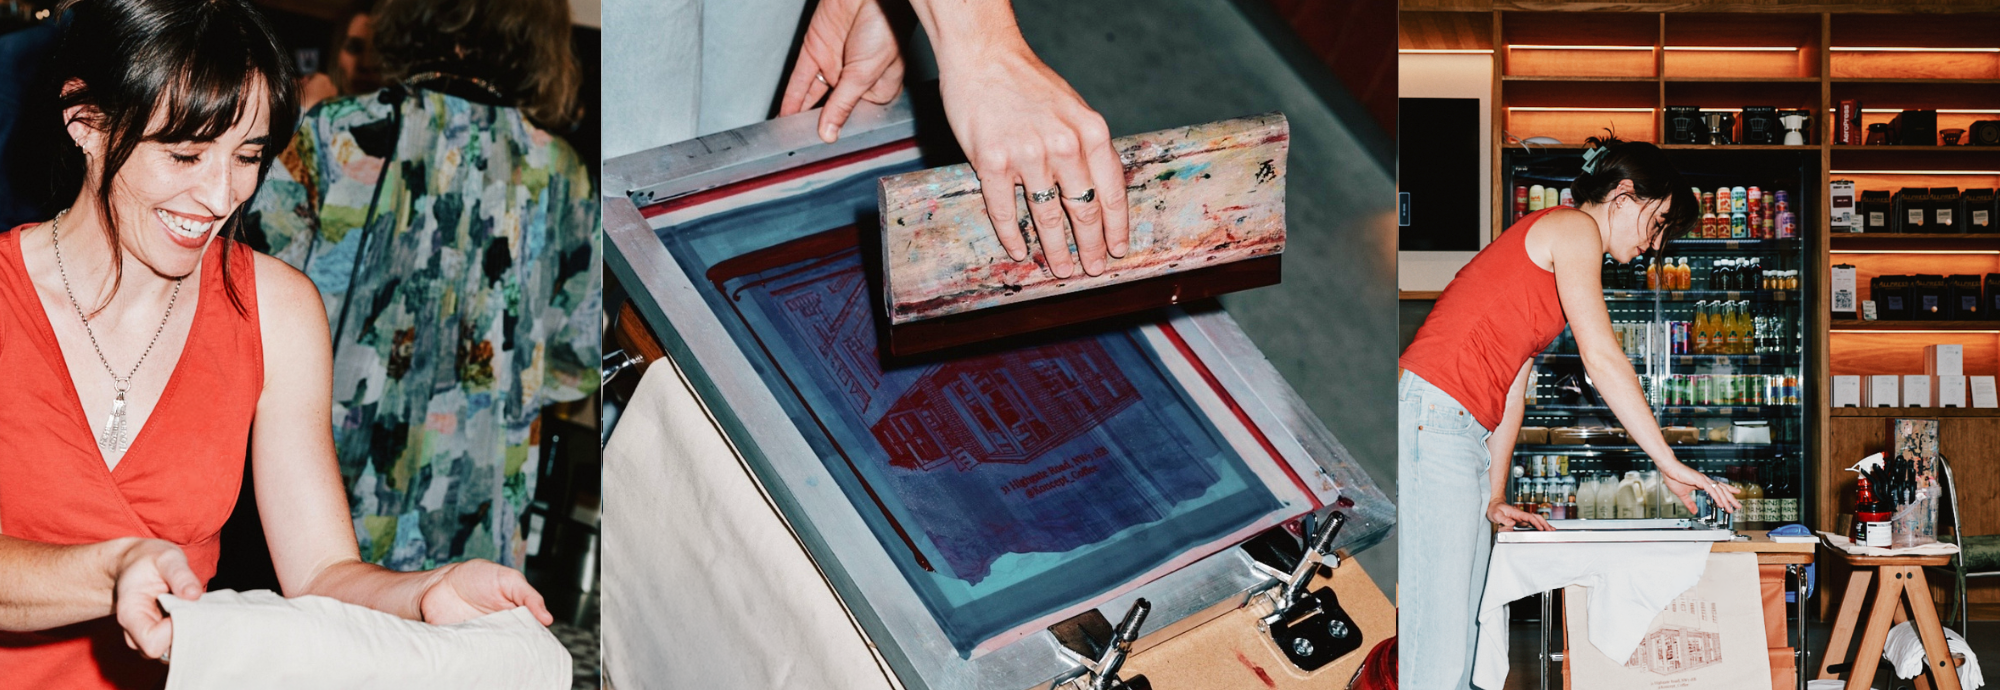
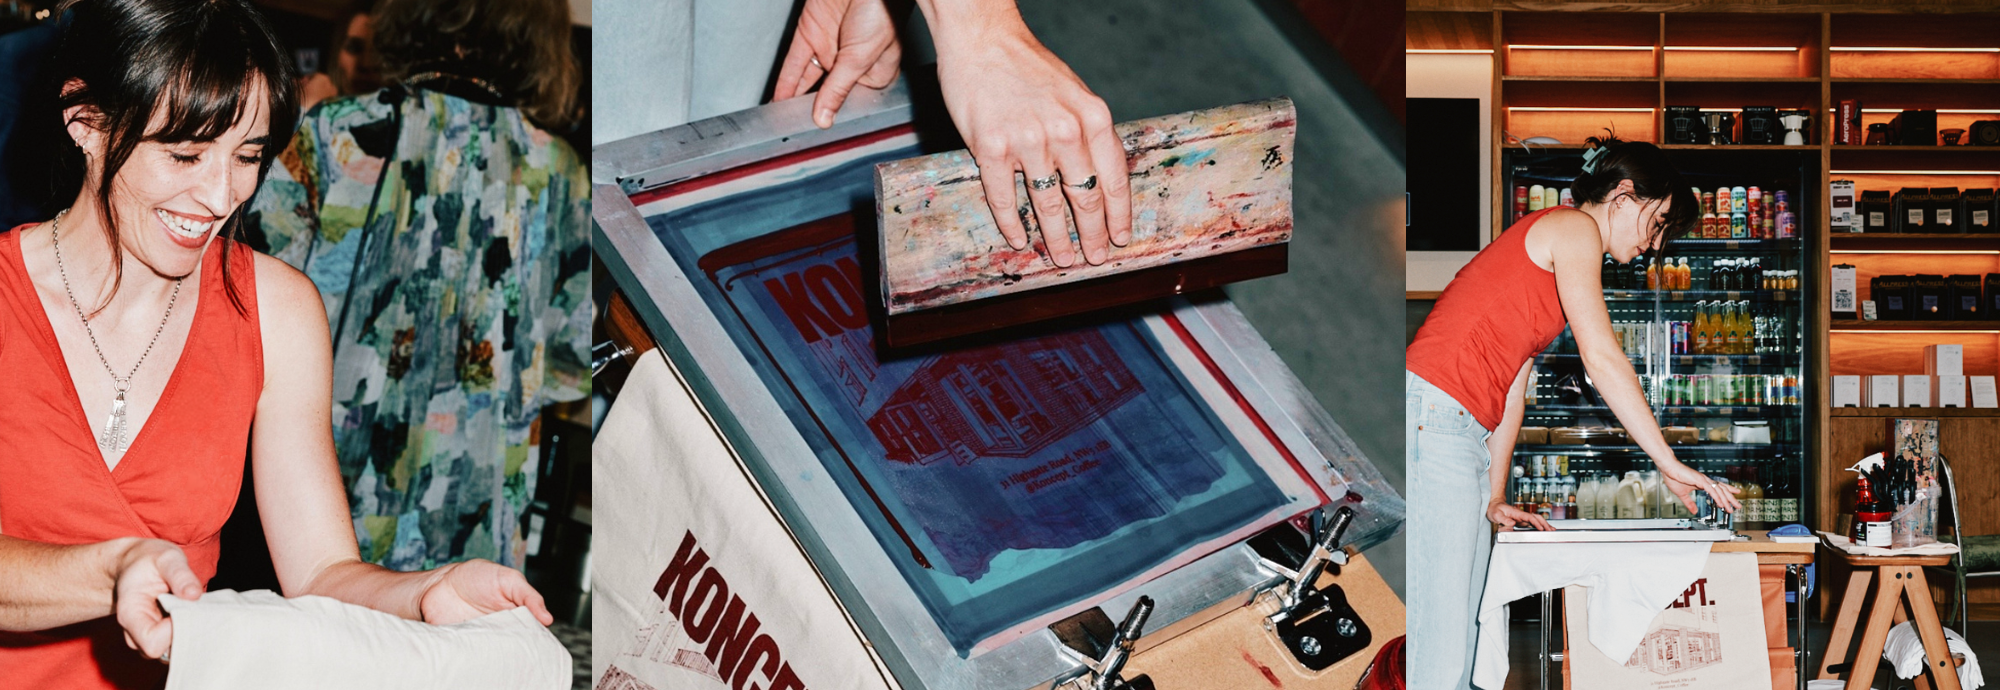
changes to commission form

Changed region(s): [[0.279, 0.0, 0.713, 1.0], [0.496, 0.8217, 0.589, 1.0], [0.837, 0.8522, 0.868, 0.8826]]

diff --git a/commission-form.html b/commission-form.html
@@ -21,10 +21,10 @@
         
         <a class="back" href="commissions.html">← Commission guide</a></div></div></header><main><section class="hero"><div class="wrap"><div class="eyebrow">Start a commission</div><h1>YOUR PLACE<br/><em>ON PAPER.</em></h1></div></section><div class="wrap intro"><div class="eyebrow">Commission request</div><p>Tell me the place, choose a size, send your photos.</p></div>
 <form action="https://formsubmit.co/info@idillustrates.com" enctype="multipart/form-data" method="POST"><input name="_subject" type="hidden" value="New Bespoke Illustration Request / ID Illustrates"/><input name="_template" type="hidden" value="table"/><input name="_next" type="hidden" value="https://www.idillustrates.com/commission-form.html?sent=1"/><input autocomplete="off" name="_honey" style="display:none" tabindex="-1" type="text"/><div class="wrap">
-<section class="step"><div class="step-head"><div class="step-num">01</div><div><div class="eyebrow">Tell me what matters</div><h2>THE PLACE.</h2></div></div><div class="field"><div class="legend">Choose one <span class="req">*</span></div><div class="control options"><label class="choice"><input name="Illustration type" required="" type="radio" value="Home"/> Home</label><label class="choice"><input name="Illustration type" type="radio" value="Wedding Venue"/> Wedding venue</label><label class="choice"><input name="Illustration type" type="radio" value="Other"/> Other special place</label></div></div><div class="field"><label for="venue">Which place? <span class="req">*</span></label><div class="control"><textarea id="venue" name="Property / venue address or name" placeholder="Address, venue name or a short description" required=""></textarea></div></div><div class="field"><label for="include">Anything I should notice?</label><div class="control"><textarea id="include" name="Special details to include" placeholder="The rose bush, a favourite window, a pet, or anything to leave out."></textarea></div></div><div class="field"><div class="legend">Reference photos <span class="req">*</span></div><div class="control"><div class="upload"><input accept="image/*" multiple="" name="Reference photos" required="" type="file"/></div><p class="help">Upload 1–10 clear photographs. A straight-on view plus detail shots is ideal.</p></div></div></section>
+<section class="step"><div class="step-head"><div class="step-num">01</div><div><div class="eyebrow">Tell me what matters</div></div></div><div class="field"><div class="legend">Choose one <span class="req">*</span></div><div class="control options"><label class="choice"><input name="Illustration type" required="" type="radio" value="Home"/> Home</label><label class="choice"><input name="Illustration type" type="radio" value="Wedding Venue"/> Wedding venue</label><label class="choice"><input name="Illustration type" type="radio" value="Other"/> Other special place</label></div></div><div class="field"><label for="venue">Which place? <span class="req">*</span></label><div class="control"><textarea id="venue" name="Property / venue address or name" placeholder="Address, venue name or a short description" required=""></textarea></div></div><div class="field"><label for="include">Anything I should notice?</label><div class="control"><textarea id="include" name="Special details to include" placeholder="The rose bush, a favourite window, a pet, or anything to leave out."></textarea></div></div><div class="field"><div class="legend">Reference photos <span class="req">*</span></div><div class="control"><div class="upload"><input accept="image/*" multiple="" name="Reference photos" required="" type="file"/></div><p class="help">Upload 1–10 clear photographs. A straight-on view plus detail shots is ideal.</p></div></div></section>
 
-<section class="step"><div class="step-head"><div class="step-num">02</div><div><div class="eyebrow">The artwork</div><h2>THE ORIGINAL.</h2></div></div><div class="field"><div class="legend">Size <span class="req">*</span></div><div class="control options"><label class="choice"><input name="Size" required="" type="radio" value="A5"/> A5 <span class="option-price" data-size="A5">£175</span></label><label class="choice"><input name="Size" type="radio" value="A4"/> A4 <span class="option-price" data-size="A4">£250 · most popular</span></label><label class="choice"><input name="Size" type="radio" value="A3"/> A3 <span class="option-price" data-size="A3">£325</span></label><p class="help">Same price whatever the place — a home, wedding venue, favourite building or somewhere meaningful.</p></div></div><div class="field"><div class="legend">Framing</div><div class="control options"><label class="choice"><input name="Framing" type="radio" value="No / I can provide my own frame"/> No frame</label><label class="choice"><input name="Framing" type="radio" value="Yes / framing from £45"/> Yes please <span class="option-price">from £45</span></label><label class="choice"><input name="Framing" type="radio" value="Not sure yet"/> Decide later</label></div></div><div class="field"><div class="legend">Extras</div><div class="control options"><label class="choice"><input name="Add-ons[]" type="checkbox" value="Add my pet / £35"/> Add my pet <span class="option-price">+£35</span></label><label class="choice"><input name="Add-ons[]" type="checkbox" value="Priority 1-week turnaround / £50"/> Priority turnaround <span class="option-price">+£50</span></label><label class="choice"><input name="Add-ons[]" type="checkbox" value="High-resolution digital copy / £35"/> Digital copy <span class="option-price">+£35</span></label></div></div><div class="price-live" id="priceLive"></div></section>
-<section class="step"><div class="step-head"><div class="step-num">03</div><div><div class="eyebrow">Your details</div><h2>YOUR DETAILS.</h2></div></div><div class="field"><label for="name">Name <span class="req">*</span></label><div class="control"><input autocomplete="name" id="name" name="Name" required="" type="text"/></div></div><div class="field"><label for="email">Email <span class="req">*</span></label><div class="control"><input autocomplete="email" id="email" name="Email" required="" type="email"/></div></div><div class="field"><label for="deadline">Need it by a date?</label><div class="control"><input id="deadline" name="Required by" type="date"/></div></div><div class="field"><label for="postcode">Delivery postcode</label><div class="control"><input autocomplete="postal-code" id="postcode" name="Delivery postcode" placeholder="UK postcode, or country if overseas" type="text"/></div></div><div class="field"><label for="comments">Anything else?</label><div class="control"><textarea id="comments" name="Final comments" placeholder="Gift occasion, names, dates, stationery plans, or anything else useful."></textarea></div></div><details class="terms-compact"><summary>Commission terms</summary><h3>Booking &amp; payment</h3><p>I’ll review your request and confirm the final price and timing before you book. A 50% deposit secures the commission; the balance is due when the artwork is complete. Usual turnaround is around 2 to 3 weeks.</p><h3>Revisions</h3><p>One round of minor revisions is included. Significant changes to the composition or further amendments may be charged separately.</p><h3>Delivery</h3><p>Tracked UK delivery is included. International delivery is quoted separately.</p><h3>Copyright &amp; usage</h3><p>The original artwork is yours; copyright remains with the artist. Personal use is included. Reproduction, wedding stationery or commercial use requires separate permission/licensing.</p><h3>Handmade artwork</h3><p>Each piece is individually hand drawn and signed. Natural variations are part of the character of original artwork.</p><label class="choice agree"><input name="Commission terms agreed" required="" type="checkbox" value="Yes"/> I have read and agree to the Commission Terms. <span class="req">*</span></label><div class="submit-row"><button class="submit" type="submit">Send commission request →</button><div class="note">This is an enquiry, not a payment. I’ll confirm availability, timing and final price before you book.</div></div></details></section>
+<section class="step"><div class="step-head"><div class="step-num">02</div><div><div class="eyebrow">The artwork</div></div></div><div class="field"><div class="legend">Size <span class="req">*</span></div><div class="control options"><label class="choice"><input name="Size" required="" type="radio" value="A5"/> A5 <span class="option-price" data-size="A5">£175</span></label><label class="choice"><input name="Size" type="radio" value="A4"/> A4 <span class="option-price" data-size="A4">£250 · most popular</span></label><label class="choice"><input name="Size" type="radio" value="A3"/> A3 <span class="option-price" data-size="A3">£325</span></label><p class="help">Same price whatever the place — a home, wedding venue, favourite building or somewhere meaningful.</p></div></div><div class="field"><div class="legend">Framing</div><div class="control options"><label class="choice"><input name="Framing" type="radio" value="No / I can provide my own frame"/> No frame</label><label class="choice"><input name="Framing" type="radio" value="Yes / framing from £45"/> Yes please <span class="option-price">from £45</span></label><label class="choice"><input name="Framing" type="radio" value="Not sure yet"/> Decide later</label></div></div><div class="field"><div class="legend">Extras</div><div class="control options"><label class="choice"><input name="Add-ons[]" type="checkbox" value="Add my pet / £35"/> Add my pet <span class="option-price">+£35</span></label><label class="choice"><input name="Add-ons[]" type="checkbox" value="Priority 1-week turnaround / £50"/> Priority turnaround <span class="option-price">+£50</span></label><label class="choice"><input name="Add-ons[]" type="checkbox" value="High-resolution digital copy / £35"/> Digital copy <span class="option-price">+£35</span></label></div></div><div class="price-live" id="priceLive"></div></section>
+<section class="step"><div class="step-head"><div class="step-num">03</div><div><div class="eyebrow">Your details</div></div></div><div class="field"><label for="name">Name <span class="req">*</span></label><div class="control"><input autocomplete="name" id="name" name="Name" required="" type="text"/></div></div><div class="field"><label for="email">Email <span class="req">*</span></label><div class="control"><input autocomplete="email" id="email" name="Email" required="" type="email"/></div></div><div class="field"><label for="deadline">Need it by a date?</label><div class="control"><input id="deadline" name="Required by" type="date"/></div></div><div class="field"><label for="postcode">Delivery postcode</label><div class="control"><input autocomplete="postal-code" id="postcode" name="Delivery postcode" placeholder="UK postcode, or country if overseas" type="text"/></div></div><div class="field"><label for="comments">Anything else?</label><div class="control"><textarea id="comments" name="Final comments" placeholder="Gift occasion, names, dates, stationery plans, or anything else useful."></textarea></div></div><details class="terms-compact"><summary>Commission terms</summary><h3>Booking &amp; payment</h3><p>I’ll review your request and confirm the final price and timing before you book. A 50% deposit secures the commission; the balance is due when the artwork is complete. Usual turnaround is around 2 to 3 weeks.</p><h3>Revisions</h3><p>One round of minor revisions is included. Significant changes to the composition or further amendments may be charged separately.</p><h3>Delivery</h3><p>Tracked UK delivery is included. International delivery is quoted separately.</p><h3>Copyright &amp; usage</h3><p>The original artwork is yours; copyright remains with the artist. Personal use is included. Reproduction, wedding stationery or commercial use requires separate permission/licensing.</p><h3>Handmade artwork</h3><p>Each piece is individually hand drawn and signed. Natural variations are part of the character of original artwork.</p><label class="choice agree"><input name="Commission terms agreed" required="" type="checkbox" value="Yes"/> I have read and agree to the Commission Terms. <span class="req">*</span></label><div class="submit-row"><button class="submit" type="submit">Send commission request →</button><div class="note">This is an enquiry, not a payment. I’ll confirm availability, timing and final price before you book.</div></div></details></section>
 
 </div></form></main><div class="basket" id="commissionBasket"><div class="basket-inner"><div><div class="label">Your commission</div><div class="basket-summary" id="basketSummary"><strong>Choose the place and size.</strong></div></div><div class="basket-total"><span>Total</span><strong id="basketTotal">£0</strong></div></div></div>
 <script>const params=new URLSearchParams(location.search);if(params.get('sent')==='1'){const h=document.querySelector('.hero .wrap');const m=document.createElement('p');m.style.cssText='margin-top:30px;border-top:1px solid #111;padding-top:16px;font-size:13px';m.textContent='Thank you / your illustration request has been sent. I’ll be in touch soon.';h.appendChild(m);history.replaceState({},document.title,'commission-form.html')}</script>

diff --git a/index.html b/index.html
@@ -120,11 +120,15 @@ footer{border-top:1px solid var(--line);padding:20px var(--pad);display:flex;jus
 <body>
 <header><a class="brand" href="index.html">ISSY DUGGAN</a><nav class="nav"><a href="commissions.html">Original artwork</a><a href="index.html#brand-collaborations">Collaborations</a><a href="workshops.html">Workshops</a><a href="https://printclublondon.com/artist/issy-duggan/" target="_blank" rel="noopener">Gallery</a><a href="index.html#contact">About</a><a href="mailto:info@idillustrates.com">Contact</a></nav><button class="menu" type="button">Menu</button></header>
 <main>
+    <div class="hero-image" ><img alt="Live screen printing by Issy Duggan" src="assets/images/hero-koncept-2.png"/>
 <section class="hero"><div class="wrap"><div class="hero-top">
   
 
   
-  <a class="link" href="#live-list">View live print ↓</a></div><div class="hero-image" ><img alt="Live screen printing by Issy Duggan" src="assets/images/hero-koncept-2.png"/></div></div></section>
+  <p></p><a class="link" href="#live-list">View live print ↓</a>
+
+</div></section>
+
   <section class="section" id="commissions"><div class="wrap commission-feature"><div class="commission-feature-image"><img alt="Bespoke place commission by ID Illustrates" src="assets/images/commission-emil.png"/></div><div class="commission-feature-copy"><div class="small">Commissions / original artwork</div><h2>YOUR PLACE<br/>ON PAPER</h2><p>Original line drawings of homes, wedding venues, favourite buildings and significant places.</p><a class="link" href="commissions.html">View commissions →</a></div></div></section>
 
 <section class="section" id="brand-collaborations"><div class="wrap"><div class="section-head"><h2>BRAND COLLABORATIONS</h2><div class="right">Selected work / 2024—26</div></div>
